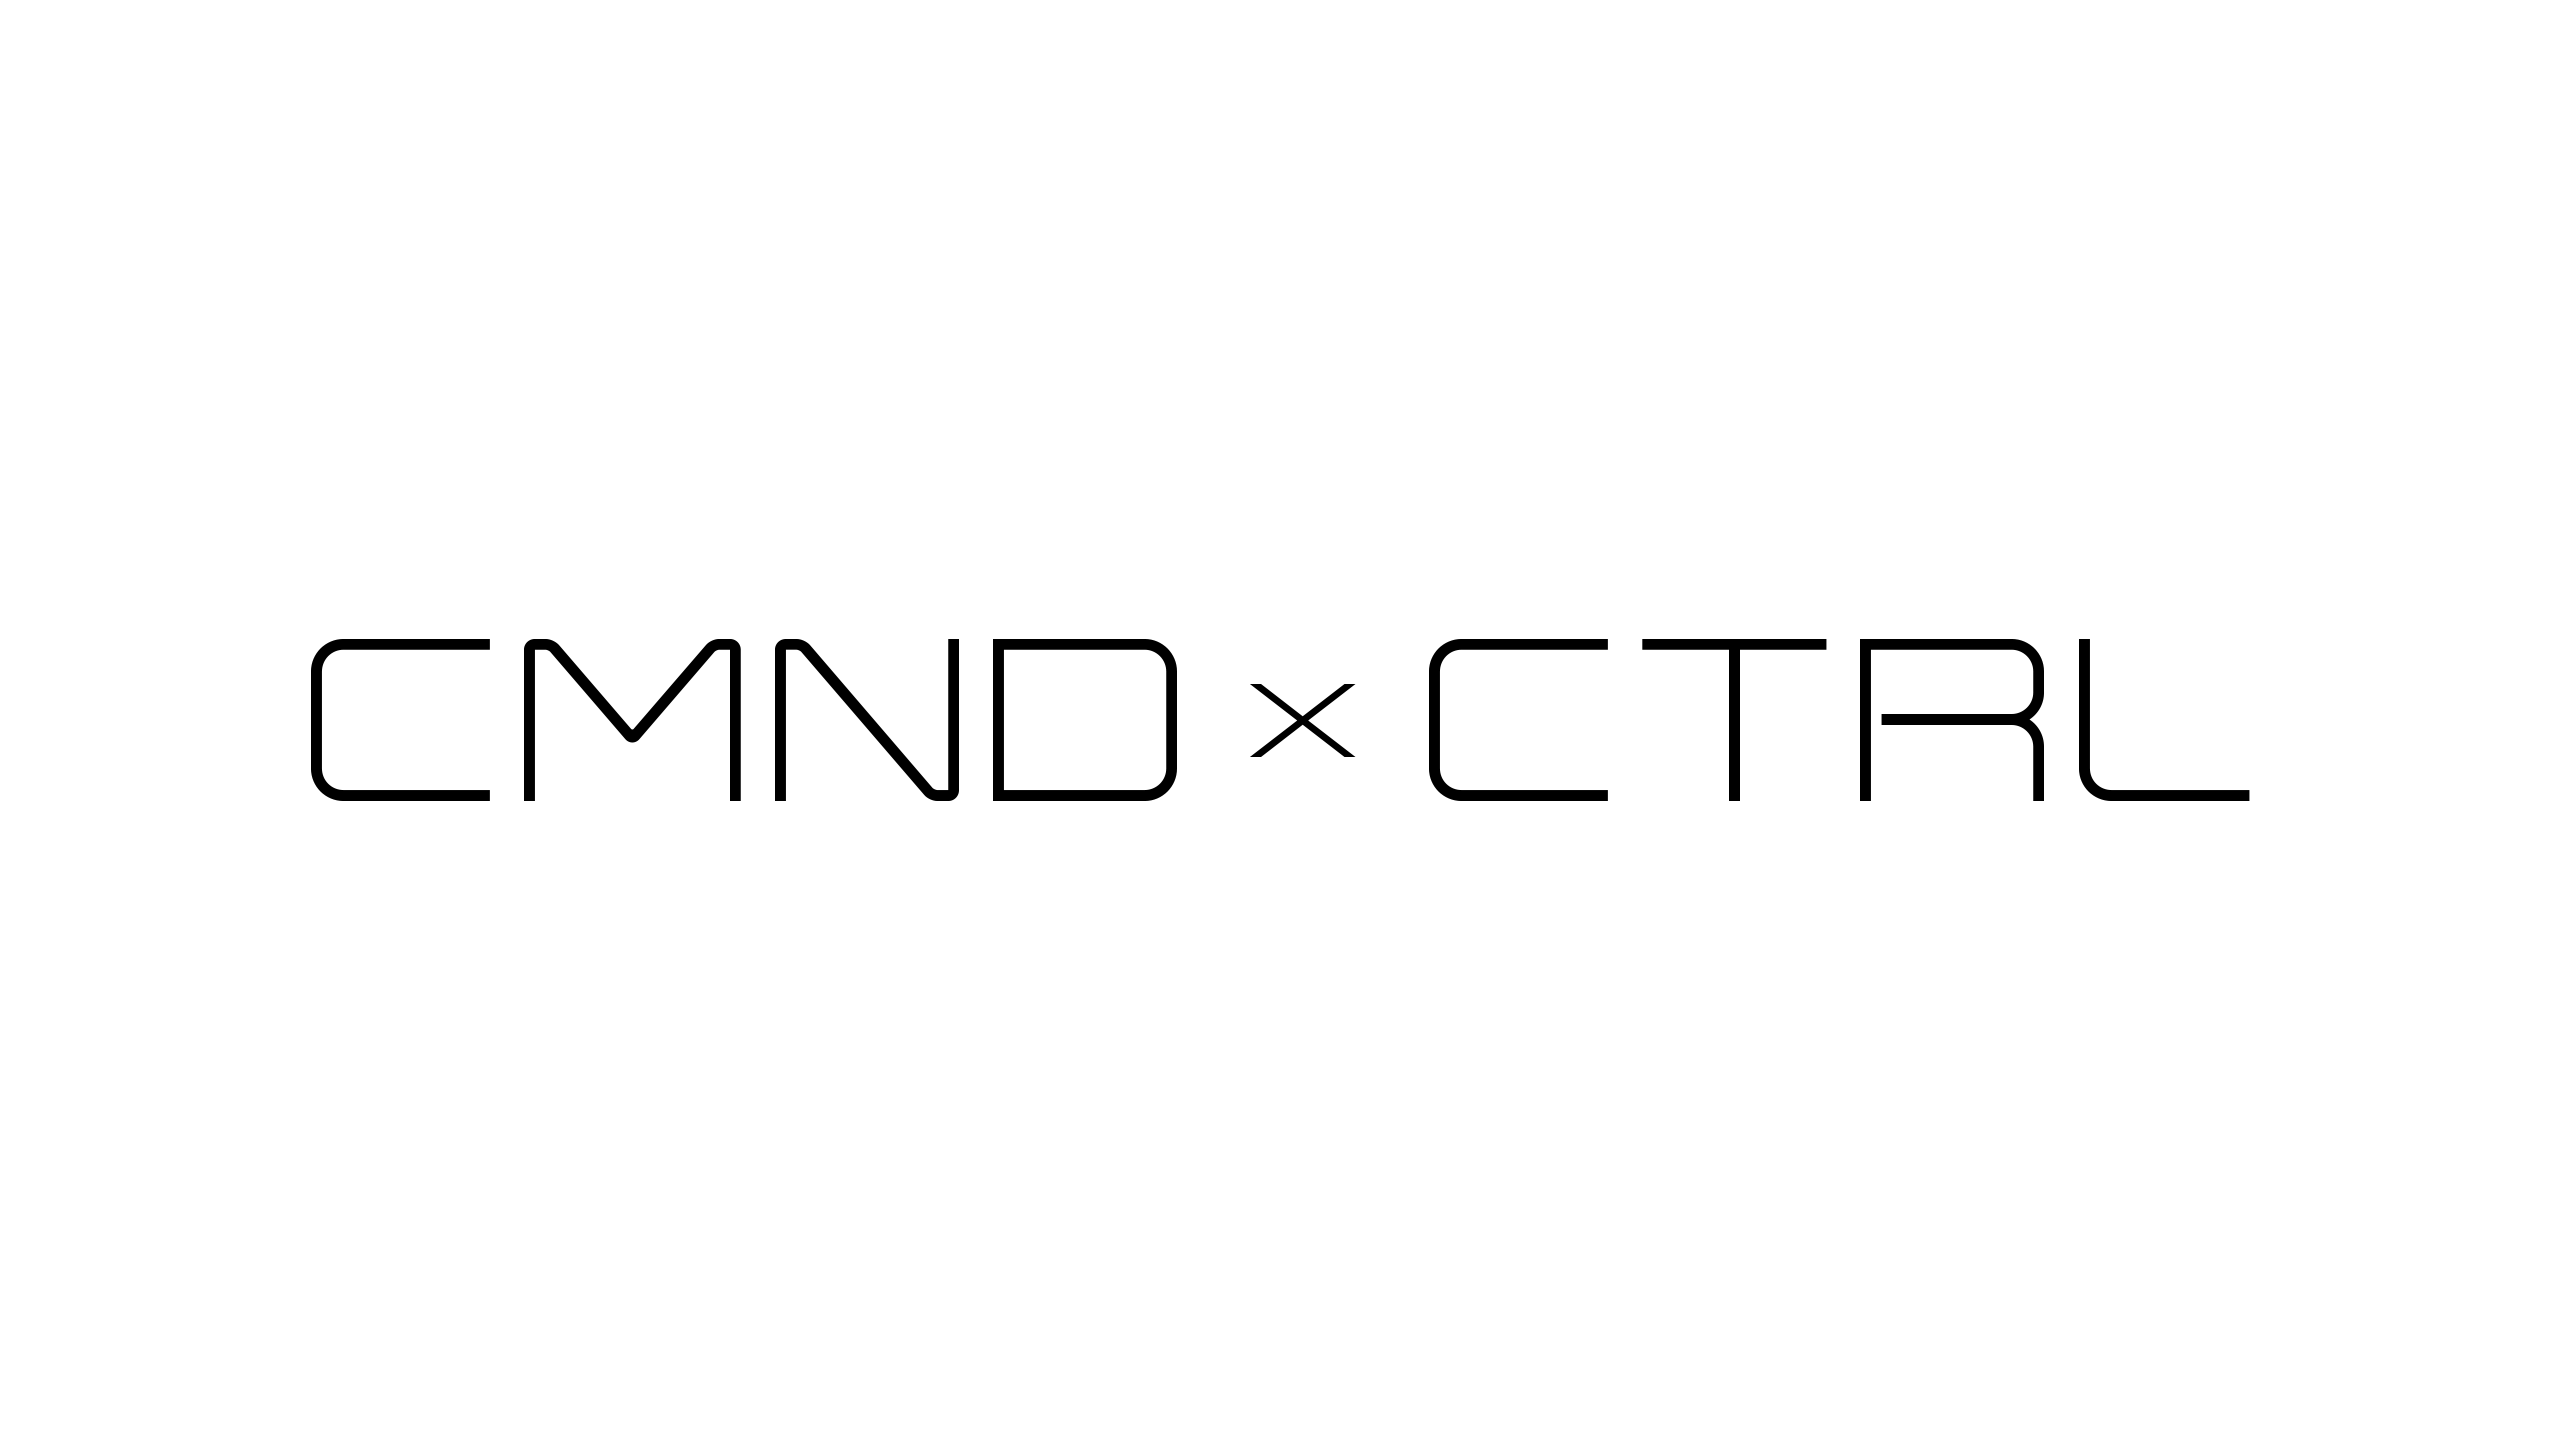
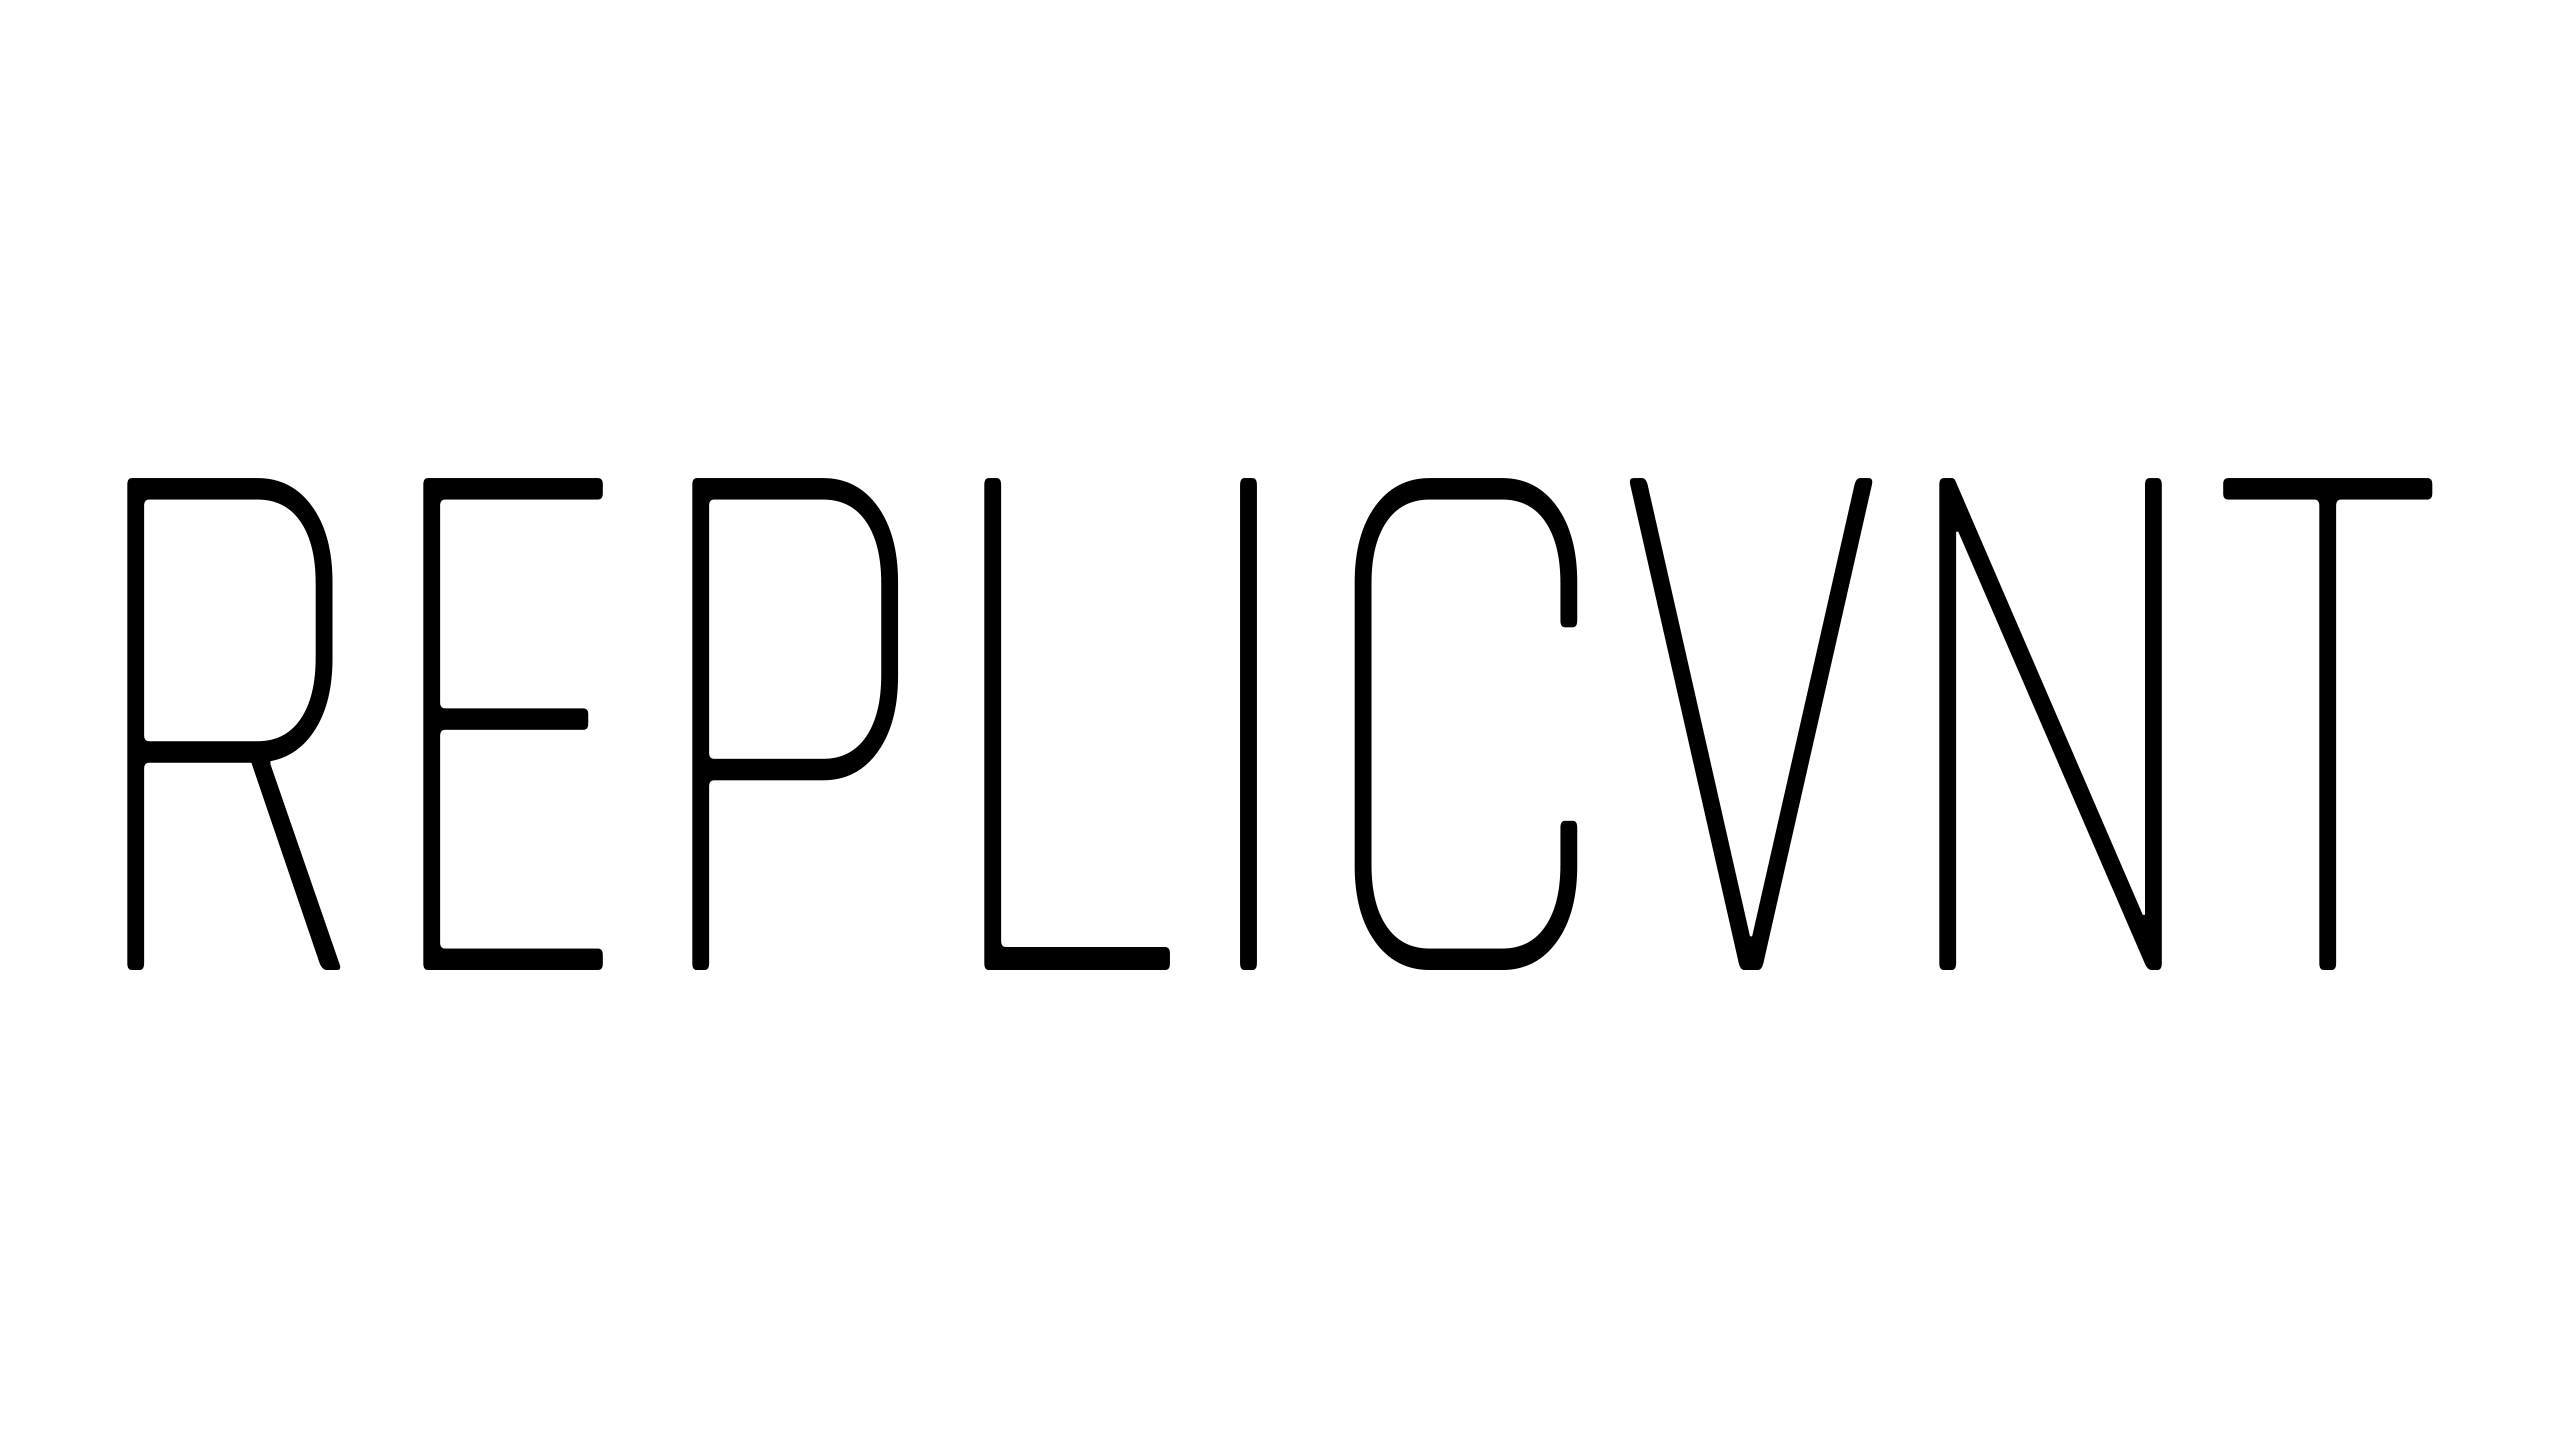
name test

Changed region(s): [[0.0312, 0.3125, 0.875, 0.6875], [0.875, 0.3125, 0.9688, 0.6875]]

diff --git a/newProject.html b/newProject.html
@@ -46,7 +46,7 @@
 		<!--<script src="http://cf.topspin.net/javascripts/topspin_core.js?aId=36106&timestamp=1606" type="text/javascript"></script>-->
 
 		<!-- tab -->
-		<title>CMND X CTRL</title>
+		<title>REPLICVNT</title>
 		<link rel="icon" href="assets/images/favicon_ViEWPV.ico">
 		<!-- tab end -->
 	</head>
